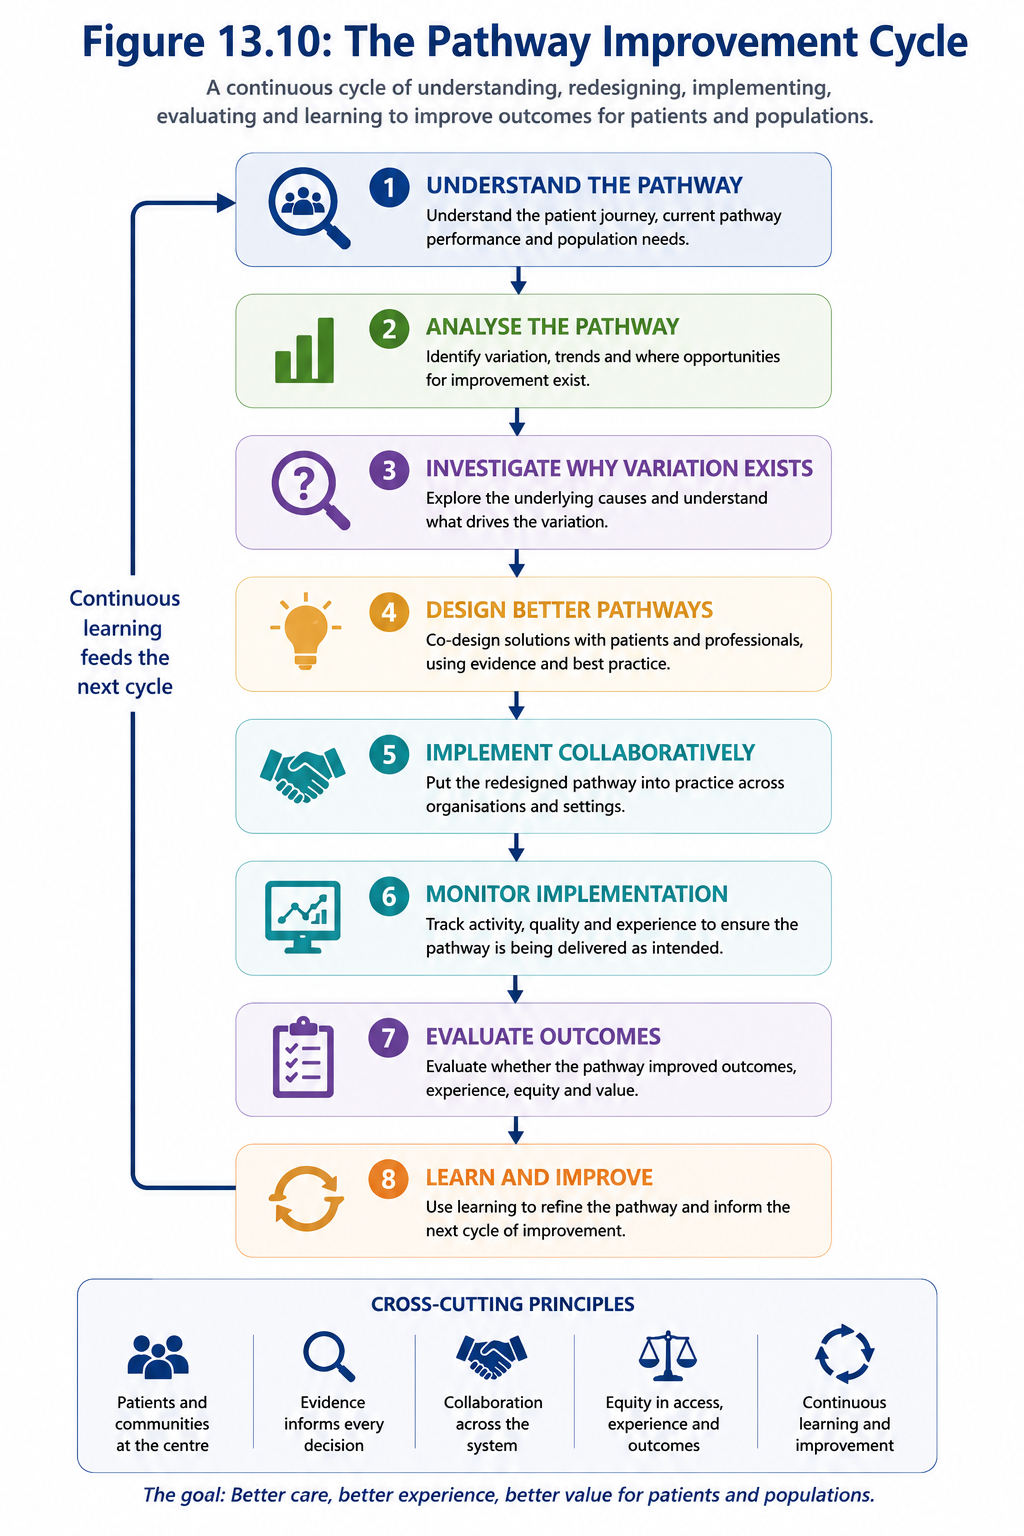
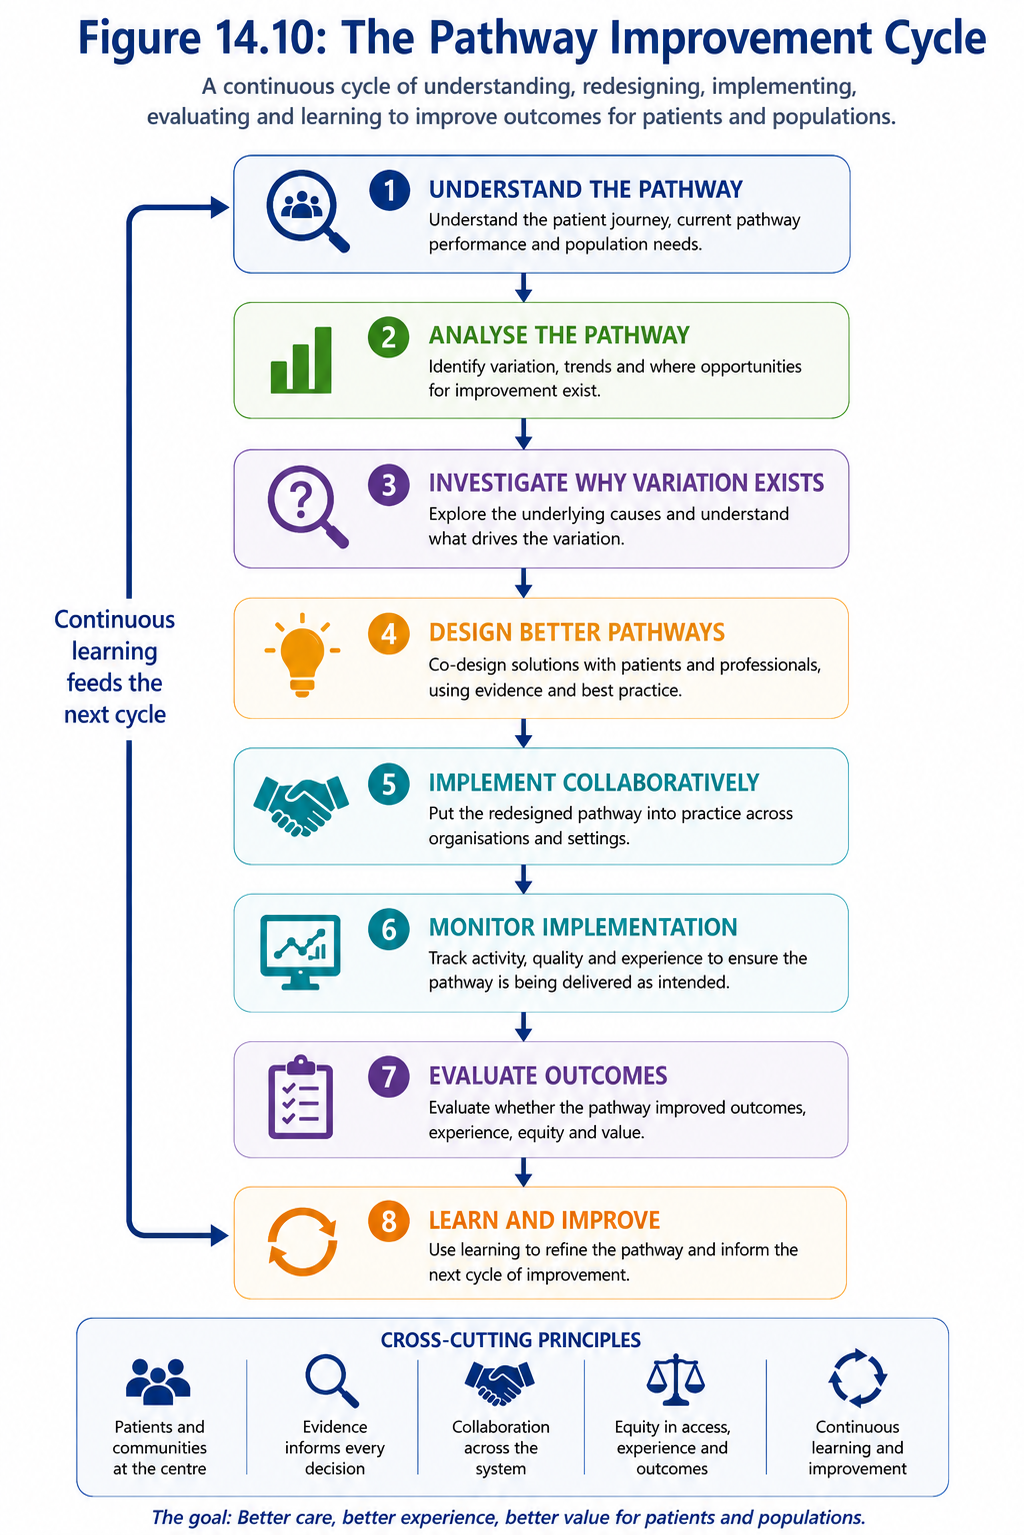
Built site for gh-pages

diff --git a/modules/14-Designing-Better-Healthcare-Pathways.html b/modules/14-Designing-Better-Healthcare-Pathways.html
@@ -399,7 +399,7 @@ ul.task-list li input[type="checkbox"] {
 <div class="callout-body-container callout-body">
 <p>A <strong>healthcare pathway</strong> is the coordinated sequence of care that a patient experiences as they move through health and care services to prevent, diagnose, treat, manage or recover from a health condition.</p>
 <p>Healthcare pathways often span multiple organisations, professional groups and information systems, making collaboration essential for delivering high-quality, patient-centred care.</p>
-<p><img src="../images/Figure14_1_Healthcare_Pathways_Cross_Organisational_Boundaries.jpg" class="img-fluid"></p>
+<p><img src="../images/Figure14_1_Healthcare_Pathways_Cross_Organisational_Boundaries.png" class="img-fluid"></p>
 <p><em>Figure 14.1: Patients experience a single healthcare journey that spans multiple organisations and services. Every interaction creates data that can be used to understand and improve the pathway.</em></p>
 </div>
 </div>
@@ -566,7 +566,7 @@ ul.task-list li input[type="checkbox"] {
 <li>how resource use varies across the pathway.</li>
 </ul>
 <p>Healthcare organisations already collect much of the information needed to understand pathways. The challenge is often not collecting more data, but connecting existing data to build a complete picture of the patient journey.</p>
-<p><img src="../images/Figure14_2_Healthcare_Pathway_Digital_Footprint.jpg" class="img-fluid"></p>
+<p><img src="../images/Figure14_2_Healthcare_Pathway_Digital_Footprint.png" class="img-fluid"></p>
 <p><em>Figure 14.2: Every interaction along a healthcare pathway generates data. When linked together, these routine operational data create a digital footprint that can be used to understand how patients move through the health and care system.</em></p>
 <div class="callout callout-style-default callout-important callout-titled">
 <div class="callout-header d-flex align-content-center" data-bs-toggle="collapse" data-bs-target=".callout-5-contents" aria-controls="callout-5" aria-expanded="true" aria-label="Toggle callout">
@@ -682,7 +682,7 @@ ul.task-list li input[type="checkbox"] {
 </div>
 </div>
 </div>
-<p><img src="../images/Figure14_3_Healthcare-Pathway-Variation.jpg" class="img-fluid"></p>
+<p><img src="../images/Figure14_3_Healthcare-Pathway-Variation.png" class="img-fluid"></p>
 <p><em>Figure 14.3: Variation occurs throughout every stage of a healthcare pathway. Pathway analytics identifies where meaningful differences exist and helps investigate their underlying causes.</em></p>
 <p>Variation may occur at many different stages of a pathway, including differences in:</p>
 <ul>
@@ -849,7 +849,7 @@ ul.task-list li input[type="checkbox"] {
 <p>A root cause is the underlying factor that produces the symptom.</p>
 <p>For example, increasing emergency admissions may initially appear to be the problem. However, the true causes may include delayed diagnosis, poor access to community services, medication adherence, workforce shortages, socioeconomic factors or inadequate discharge planning.</p>
 <p>Without understanding these underlying causes, organisations risk implementing solutions that address the visible problem while leaving the real issue unchanged.</p>
-<p><img src="../images/Figure14_4_Symptoms_Not_Root_Causes.jpg" class="img-fluid"></p>
+<p><img src="../images/Figure14_4_Symptoms_Not_Root_Causes.png" class="img-fluid"></p>
 <p><em>Figure 14.4: Visible performance issues are often symptoms of deeper system problems. Effective improvement begins by understanding the underlying causes.</em></p>
 </section>
 <section id="looking-across-the-whole-system" class="level3">
@@ -1519,7 +1519,7 @@ ul.task-list li input[type="checkbox"] {
 <li><p><strong>Patients, carers and communities</strong> contribute lived experience, ensuring redesigned pathways focus on what matters most to the people receiving care.</p></li>
 </ul>
 <p>Rather than working sequentially, these groups should work collaboratively throughout implementation, continually learning from one another and adapting as new evidence emerges.</p>
-<p><img src="../images/Figure14_7_Mature_Collaborative_Approach.jpg" class="img-fluid"></p>
+<p><img src="../images/Figure14_7_Mature_Collaborative_Approach.png" class="img-fluid"></p>
 <p><em>Figure 14.7: A mature, collaborative approach to improving healthcare pathways. Strategy, commissioning, providers, analytics and patients each contribute different expertise throughout the pathway improvement cycle.</em></p>
 <div class="callout callout-style-default callout-important callout-titled">
 <div class="callout-header d-flex align-content-center" data-bs-toggle="collapse" data-bs-target=".callout-19-contents" aria-controls="callout-19" aria-expanded="true" aria-label="Toggle callout">
